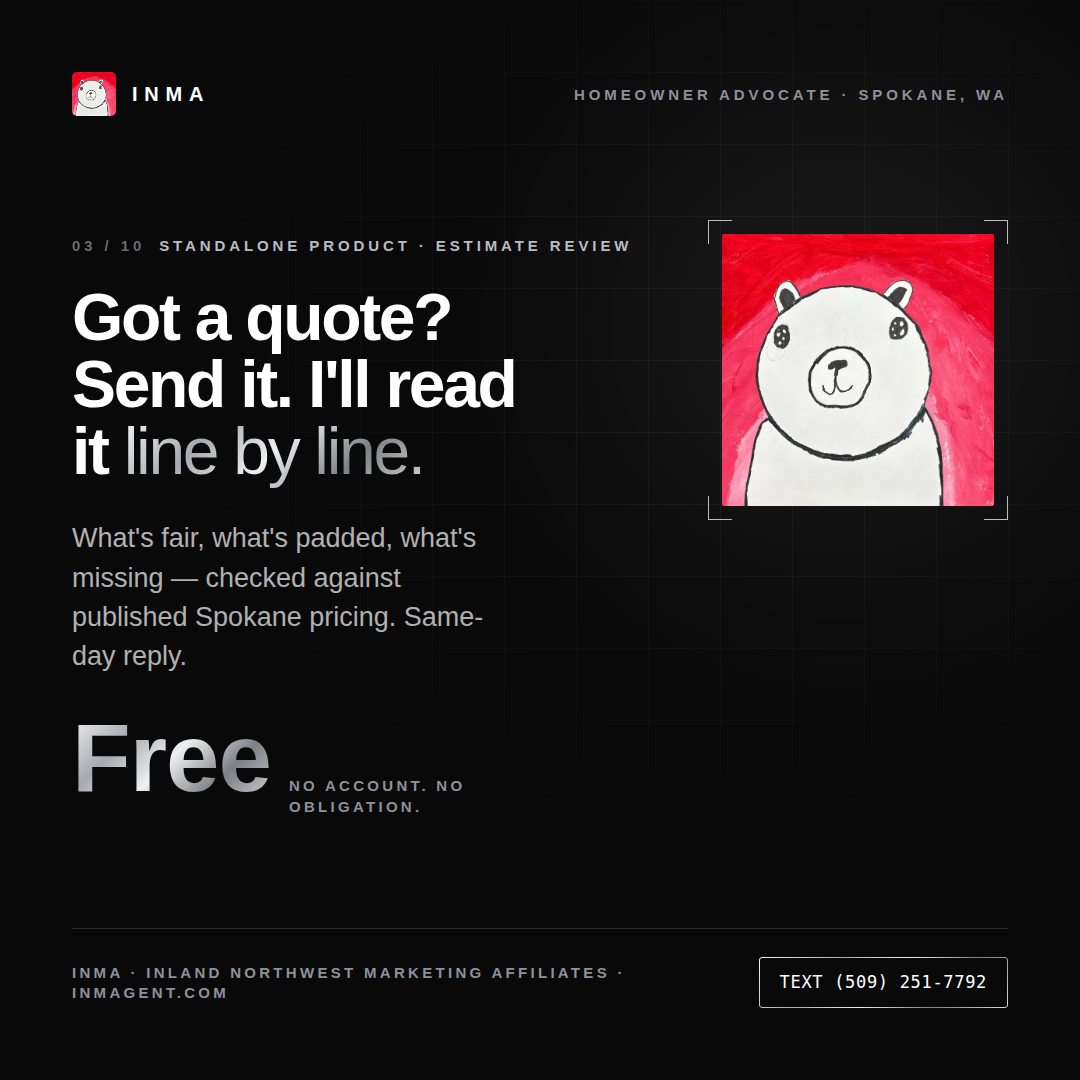
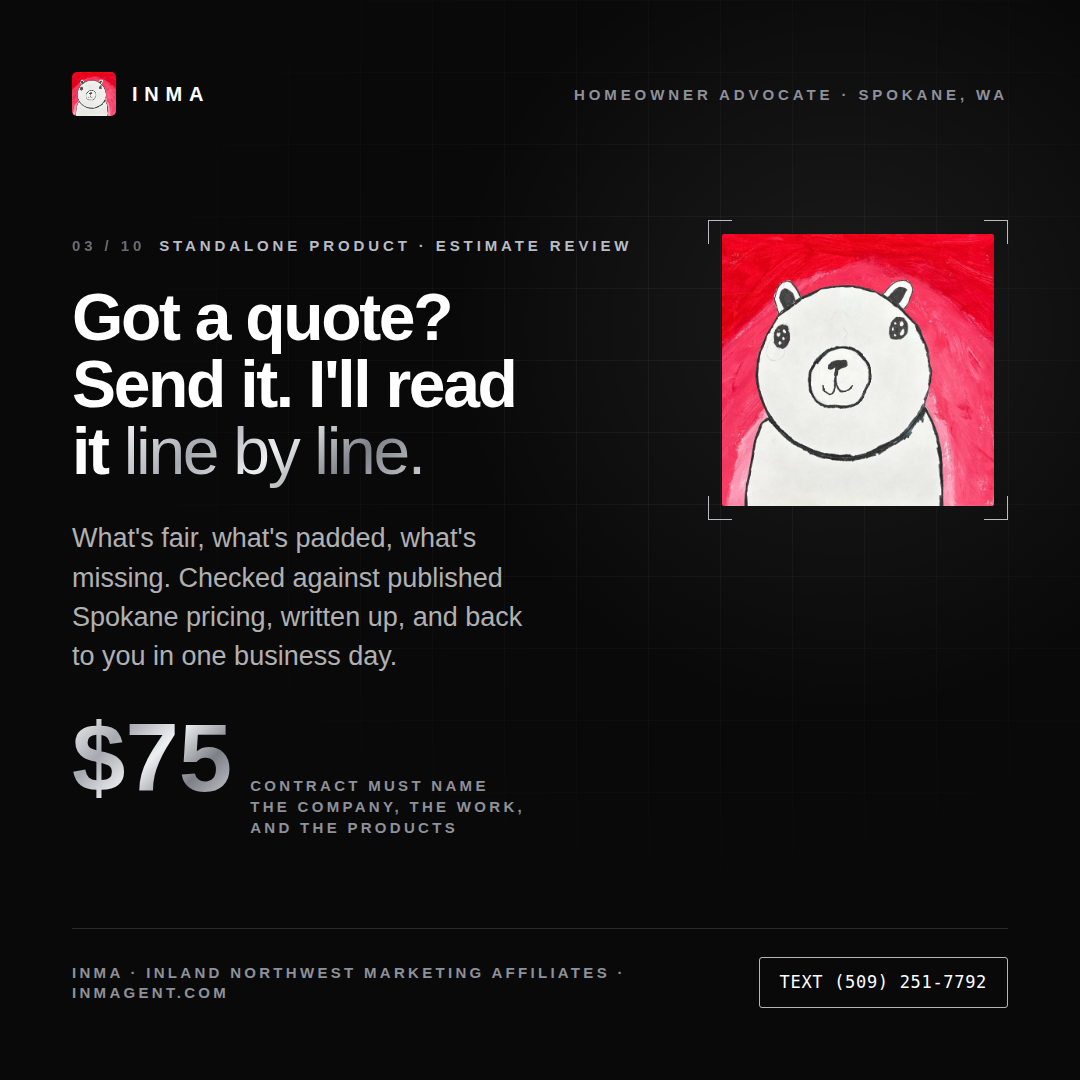
Estimate review is now $75 everywhere
Full written review of qualifying uploaded contracts. Contracts must
name the company, the specific work, and the products. Updated the home
page product card and upload section, upload page hero/steps/meta, the
mailer welcome page, structured data, and social card 03.

Claude-Session: https://claude.ai/code/session_01HbxM6Hh2URUEiLeQWwdXsN

Changed region(s): [[0.0611, 0.5194, 0.4889, 0.6417], [0.0611, 0.6722, 0.4889, 0.7944]]

diff --git a/index.html b/index.html
@@ -33,7 +33,7 @@
   "telephone": "+15092517792",
   "email": "jake@inmagent.com",
   "image": "https://inmagent.com/IMG_6892.jpeg",
-  "description": "INMA is Spokane's independent homeowner advocate. Standalone Offer Sheets, free estimate review, published fair-market pricing, DIY coaching, and Home Tune-Ups — without ever touching your construction money.",
+  "description": "INMA is Spokane's independent homeowner advocate. Standalone Offer Sheets, $75 estimate reviews, published fair-market pricing, DIY coaching, and Home Tune-Ups — without ever touching your construction money.",
   "address": {
     "@type": "PostalAddress",
     "addressLocality": "Spokane",
@@ -70,7 +70,7 @@
 <link rel="apple-touch-icon" href="/IMG_6892.jpeg">
 <link rel="icon" type="image/jpeg" href="/IMG_6892.jpeg">
 <title>INMA — Homeowner Advocate | Spokane, WA</title>
-<meta name="description" content="I'm not a contractor — I'm your personal homeowner advocate. 25 years in Spokane construction. Standalone Offer Sheets, free estimate review, published fair-market pricing, and DIY coaching.">
+<meta name="description" content="I'm not a contractor — I'm your personal homeowner advocate. 25 years in Spokane construction. Standalone Offer Sheets, $75 estimate reviews, published fair-market pricing, and DIY coaching.">
 <meta property="og:title" content="INMA — Homeowner Advocate | Spokane, WA">
 <meta property="og:description" content="I'm not a contractor. I'm your personal homeowner advocate. Your project scoped and priced to fair market, in a document you own. Take it anywhere.">
 <meta property="og:image" content="https://inmagent.com/IMG_6892.jpeg">
@@ -876,8 +876,8 @@ button{font:inherit; color:inherit}
         <p class="product__tag">Already have a quote? Upload it.</p>
         <p>I go through it line by line against the Fair Market Report and tell you straight where it lands &mdash; what's fair, what's padded, and what's missing.</p>
         <div class="product__foot">
-          <div class="product__price">Free</div>
-          <div class="product__fit">Same-day reply &middot; Best for: a quote in hand</div>
+          <div class="product__price">$75</div>
+          <div class="product__fit">Full written review &middot; Contract must name the company, the work, and the products</div>
           <a class="btn--ghost" href="/upload.html">Upload your quote <svg viewBox="0 0 24 24" fill="none" stroke="currentColor" stroke-width="2" stroke-linecap="round" stroke-linejoin="round" aria-hidden="true" focusable="false"><path d="M5 12h14M12 5l7 7-7 7"/></svg></a>
         </div>
       </article>
@@ -1001,13 +1001,13 @@ button{font:inherit; color:inherit}
     <header class="sec-head sec-head--center sec-head--tight">
       <p class="eyebrow" data-n="09">Got a national-firm quote?</p>
       <h2 id="upload-title">Upload it. I'll walk you through it.</h2>
-      <p class="lede">Same products. Same distributors. Upload what a national firm quoted you and I'll walk you through it line by line against my <a class="link-inline" href="/market-report.html">Fair Market Report</a> &mdash; every rate sourced from public cost data you can verify yourself. A fair-market Offer Sheet very often comes in around 20% under a national quote. Free review. No obligation.</p>
+      <p class="lede">Same products. Same distributors. Upload what a national firm quoted you and I'll walk you through it line by line against my <a class="link-inline" href="/market-report.html">Fair Market Report</a> &mdash; every rate sourced from public cost data you can verify yourself. A fair-market Offer Sheet very often comes in around 20% under a national quote. Full written review, $75. Qualifying contracts must name the company, the specific work to be done, and the products.</p>
     </header>
     <div class="btn-row btn-row--center">
       <a class="btn btn--primary btn--lg" href="/upload.html"><svg viewBox="0 0 24 24" fill="none" stroke="currentColor" stroke-width="1.5" stroke-linecap="round" stroke-linejoin="round" aria-hidden="true" focusable="false"><path d="M21 15v4a2 2 0 0 1-2 2H5a2 2 0 0 1-2-2v-4"/><polyline points="17 8 12 3 7 8"/><line x1="12" y1="3" x2="12" y2="15"/></svg>Upload your quote</a>
       <a class="btn btn--secondary btn--lg" href="sms:5092517792?body=I have a quote I'd like compared"><svg viewBox="0 0 24 24" fill="none" stroke="currentColor" stroke-width="1.5" stroke-linecap="round" stroke-linejoin="round" aria-hidden="true" focusable="false"><path d="M21 15a2 2 0 0 1-2 2H7l-4 4V5a2 2 0 0 1 2-2h14a2 2 0 0 1 2 2z"/></svg>Text it to me</a>
     </div>
-    <p class="hero__micro hero__micro--center">Takes 30 seconds. I respond same day with a line-by-line comparison.</p>
+    <p class="hero__micro hero__micro--center">Takes 30 seconds to upload. You get a line-by-line written review within one business day.</p>
   </div>
 </section>
 

diff --git a/upload.html b/upload.html
@@ -23,7 +23,7 @@
 <meta charset="UTF-8">
 <link rel="canonical" href="https://inmagent.com/upload.html">
 <meta name="viewport" content="width=device-width, initial-scale=1.0">
-<meta name="description" content="Upload your contractor's quote and Jake, your Spokane homeowner advocate, will give it a free fair-market review within one business day.">
+<meta name="description" content="Upload your contractor's quote and Jake, your Spokane homeowner advocate, will give it a full written fair-market review for $75 within one business day.">
 <meta name="theme-color" content="#09090A">
 <link rel="apple-touch-icon" href="/IMG_6892.jpeg">
 <link rel="icon" type="image/jpeg" href="/IMG_6892.jpeg">
@@ -468,9 +468,9 @@ button{font:inherit; color:inherit}
 
   <section class="hero surface-dark glow glow--gold" data-hide-cta>
     <div class="container">
-      <p class="eyebrow reveal" data-n="02">Estimate review &middot; Free</p>
+      <p class="eyebrow reveal" data-n="02">Estimate review &middot; $75</p>
       <h1 class="reveal" style="--i:1">Upload Your Quote.<br>I'll Walk You <em>Through</em> It.</h1>
-      <p class="lede reveal" style="--i:2">Upload your quote below — no account needed. Jake will review it and get back to you within one business day.</p>
+      <p class="lede reveal" style="--i:2">Upload your contract below — no account needed. Jake reviews it line by line and sends a full written review within one business day. $75.</p>
     </div>
   </section>
 <div class="drip" aria-hidden="true"></div>
@@ -543,6 +543,7 @@ button{font:inherit; color:inherit}
         </div>
 
         <aside class="aside reveal" style="--i:1">
+          <div class="aside__quote" style="margin:0 0 var(--s-6)"><p>$75 &middot; Full written review</p><small>Qualifying contracts must name the company, the specific work to be done, and the products.</small></div>
           <p class="eyebrow">What happens next</p>
           <div class="stack mt-4">
             <div class="feature">
@@ -555,7 +556,7 @@ button{font:inherit; color:inherit}
             </div>
             <div class="feature">
               <div class="feature__ic"><svg viewBox="0 0 24 24" fill="none" stroke="currentColor" stroke-width="2" stroke-linecap="round" stroke-linejoin="round" aria-hidden="true" focusable="false"><path d="M21 15a2 2 0 0 1-2 2H7l-4 4V5a2 2 0 0 1 2-2h14a2 2 0 0 1 2 2z"/></svg></div>
-              <div><h3>3. You get his honest take</h3><p>Within one business day, by text or call. Free. No pressure either way.</p></div>
+              <div><h3>3. You get a full written review</h3><p>Within one business day. $75, paid when Jake confirms your contract qualifies. No pressure either way.</p></div>
             </div>
           </div>
           <div class="aside__quote">

diff --git a/welcome.html b/welcome.html
@@ -500,7 +500,7 @@ body{min-height:100vh; min-height:100dvh}
           <div class="icon"><svg viewBox="0 0 24 24" fill="none" stroke="currentColor" stroke-width="1.5" stroke-linecap="round" stroke-linejoin="round" aria-hidden="true" focusable="false"><path d="M21 15v4a2 2 0 0 1-2 2H5a2 2 0 0 1-2-2v-4"/><polyline points="17 8 12 3 7 8"/><line x1="12" y1="3" x2="12" y2="15"/></svg></div>
           <div class="body">
             <p class="title">Upload Your Existing Quote</p>
-            <p class="sub">Already have a contractor's bid? I'll review it free. Fair-market check in 24 hours.</p>
+            <p class="sub">Already have a contractor's bid? Full written fair-market review for $75, back in one business day.</p>
           </div>
           <span class="arrow" aria-hidden="true">&rarr;</span>
         </a>
